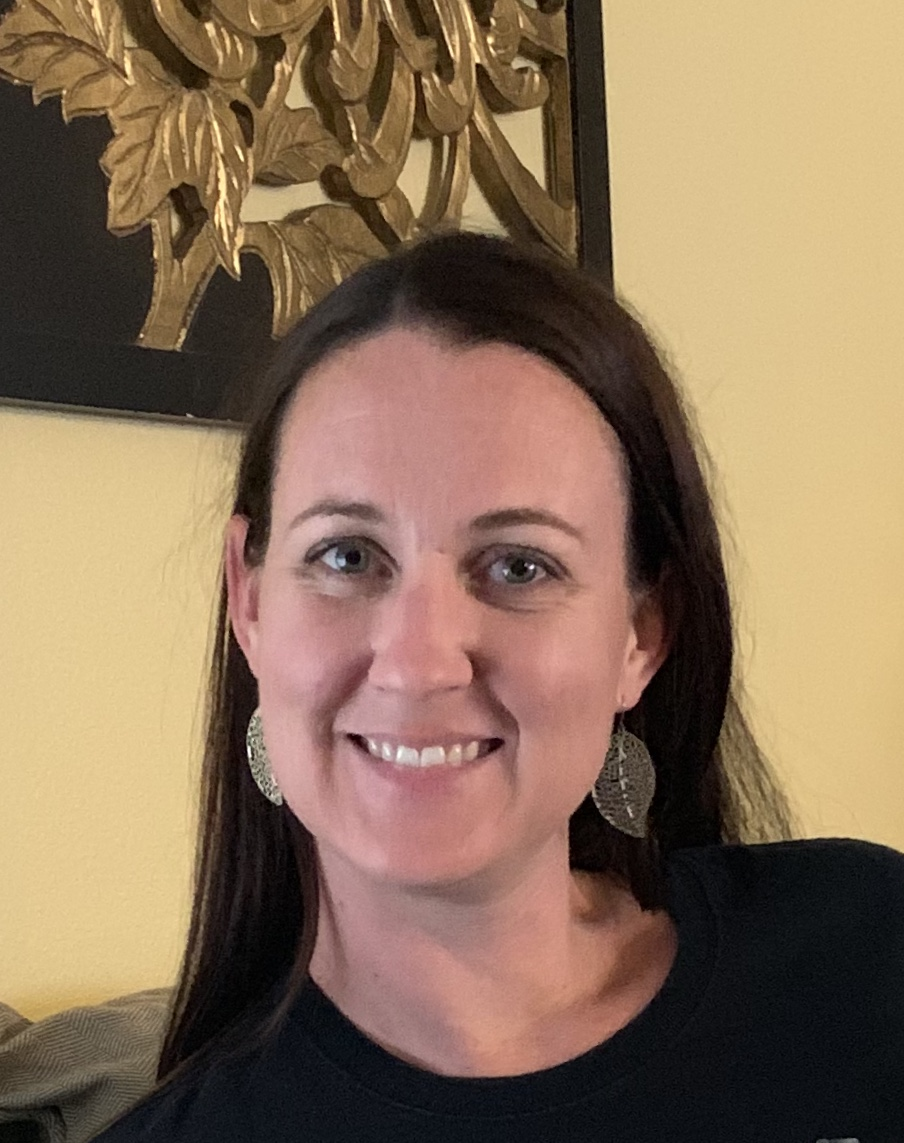
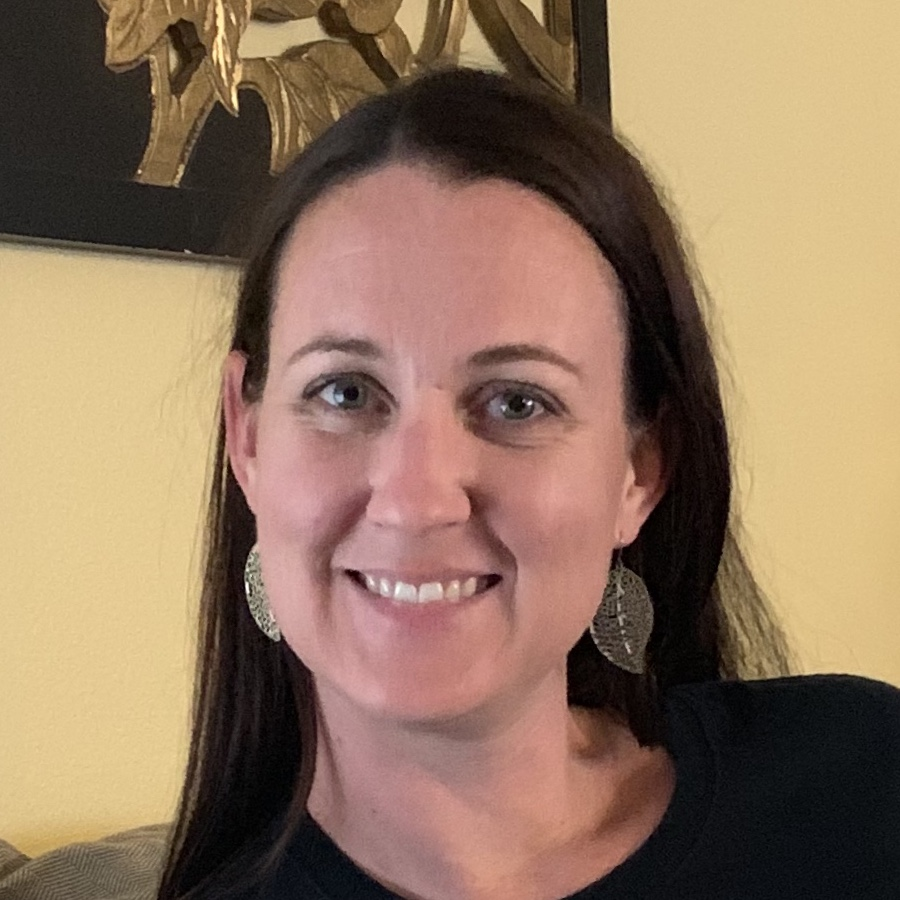
finished header

diff --git a/public/screen.css b/public/screen.css
@@ -14,6 +14,8 @@ body {
 .profile-pic {
   width: 200px;
   border-radius: 5px;
+  margin-left: 20%;
+  margin-top: 20%;
 }
 
 header {
@@ -25,21 +27,45 @@ header {
 .container-2-header {
   display: flex;
   justify-content: space-around;
-  margin-left: 5%;
-  margin-right: 5%;
+  padding-bottom: 3rem;
+  padding-top: 3rem;
+  padding-right: o;
+  padding-left: 0;
+  background-color: #00000090;
+
 }
 
 .container-1-header {
   display: flex;
+  margin-left: 10%;
+  margin-top: 10%;
+  margin-bottom: 10%;
+
+}
+
+.header-text {
+  margin-left: 5rem;
 }
 
 
 .main-img {
-  max-height: 200px;
+  width: 225px;
+  height: 144px;
+  border-radius: 5px;
 
 }
 
 header {
   display: flex;
   flex-direction: column
+}
+
+.header-text {
+  background-color: gray;
+  height: 6rem;
+}
+
+h1,
+h3 {
+  color: white;
 }
